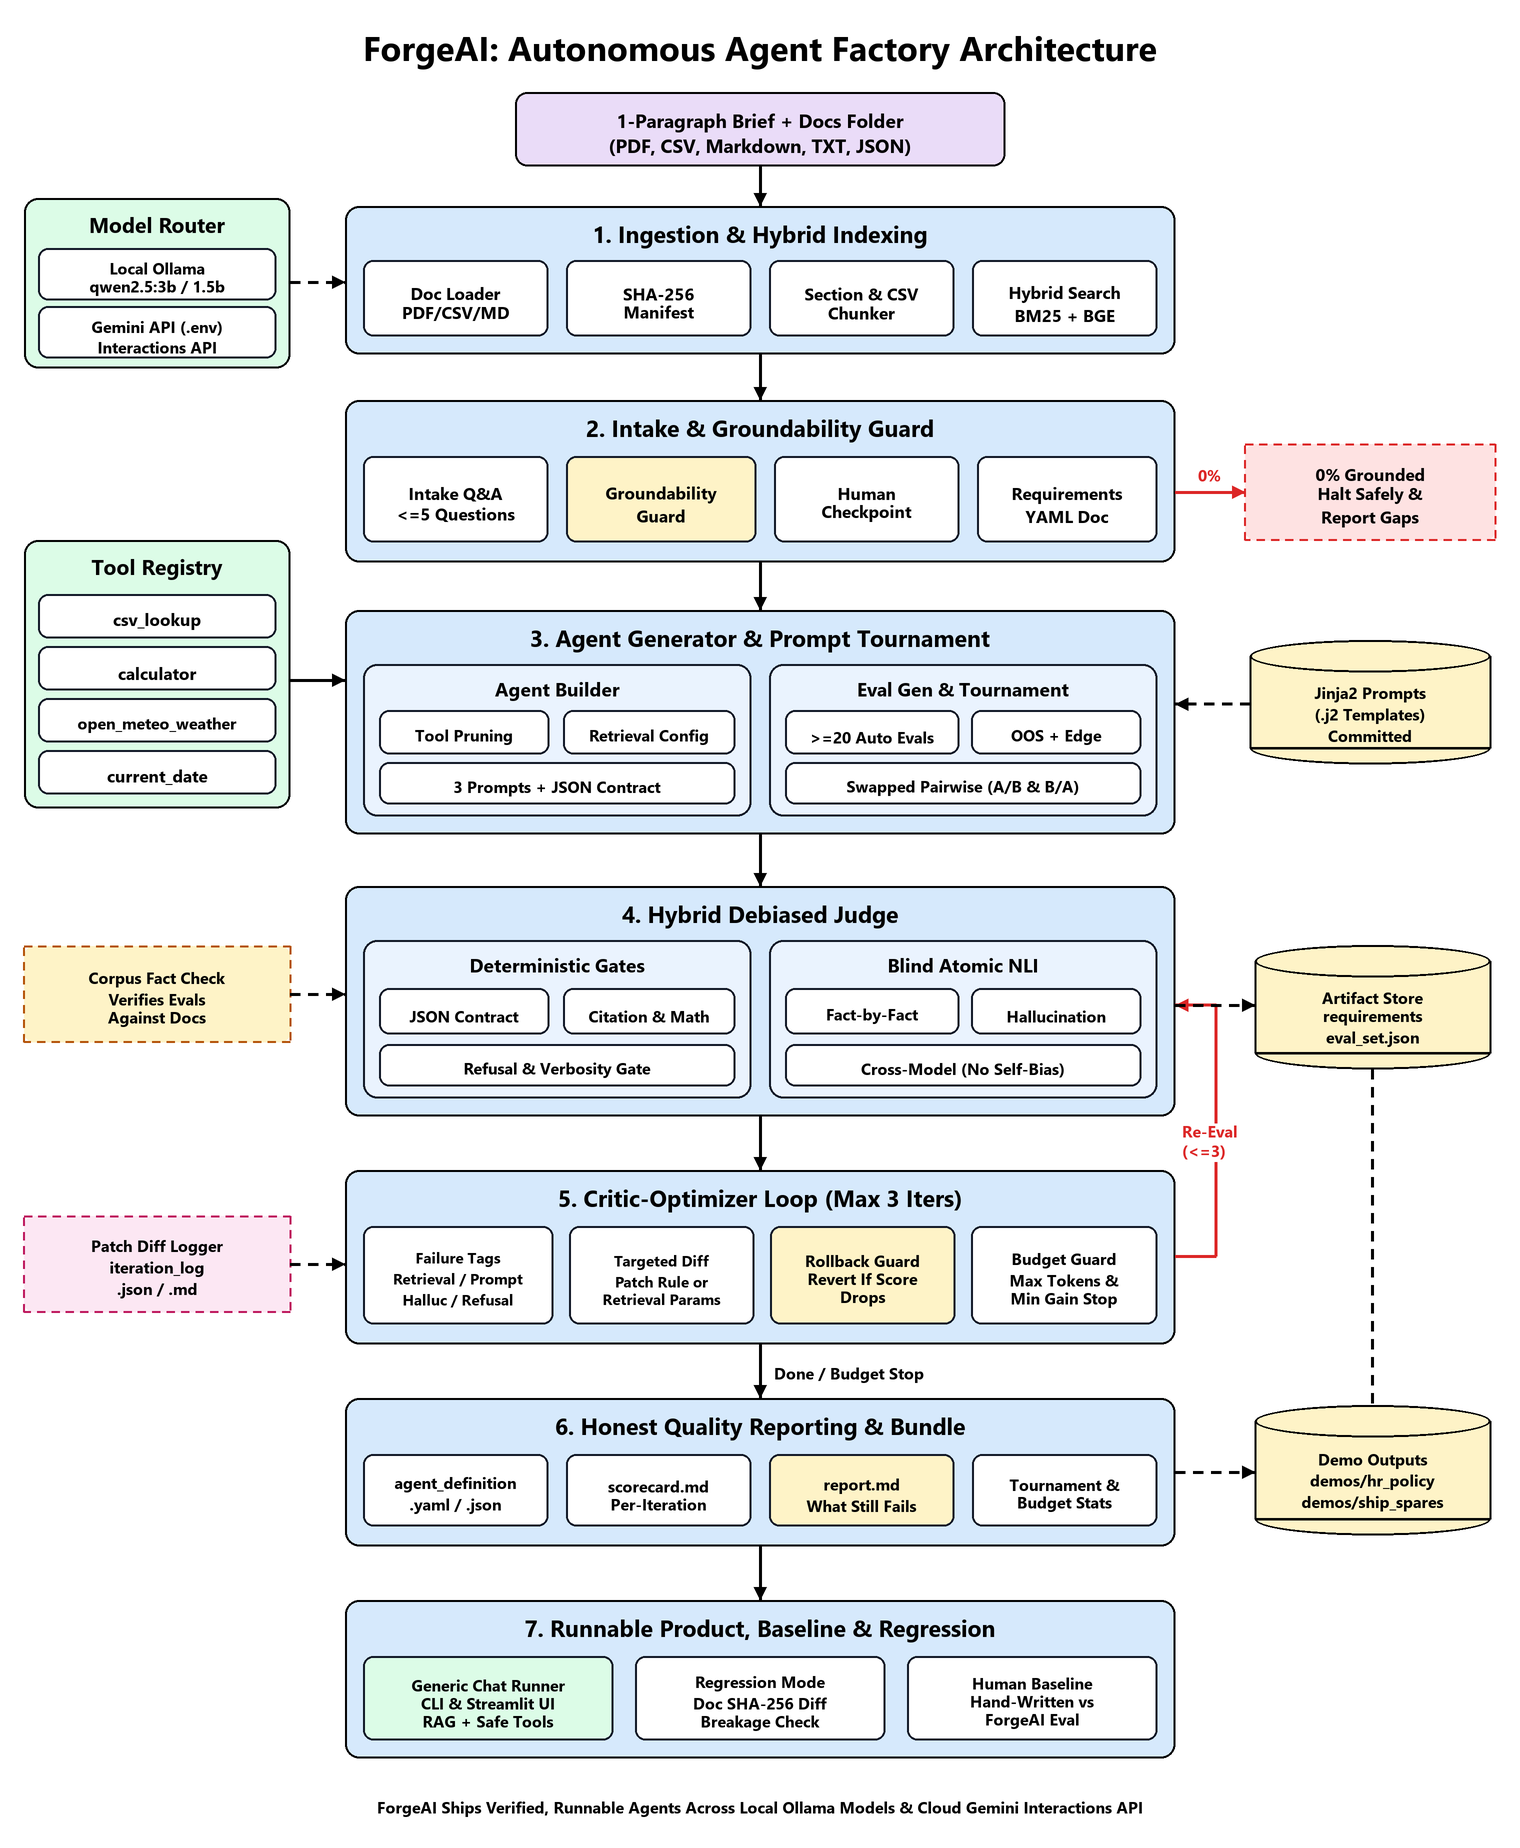
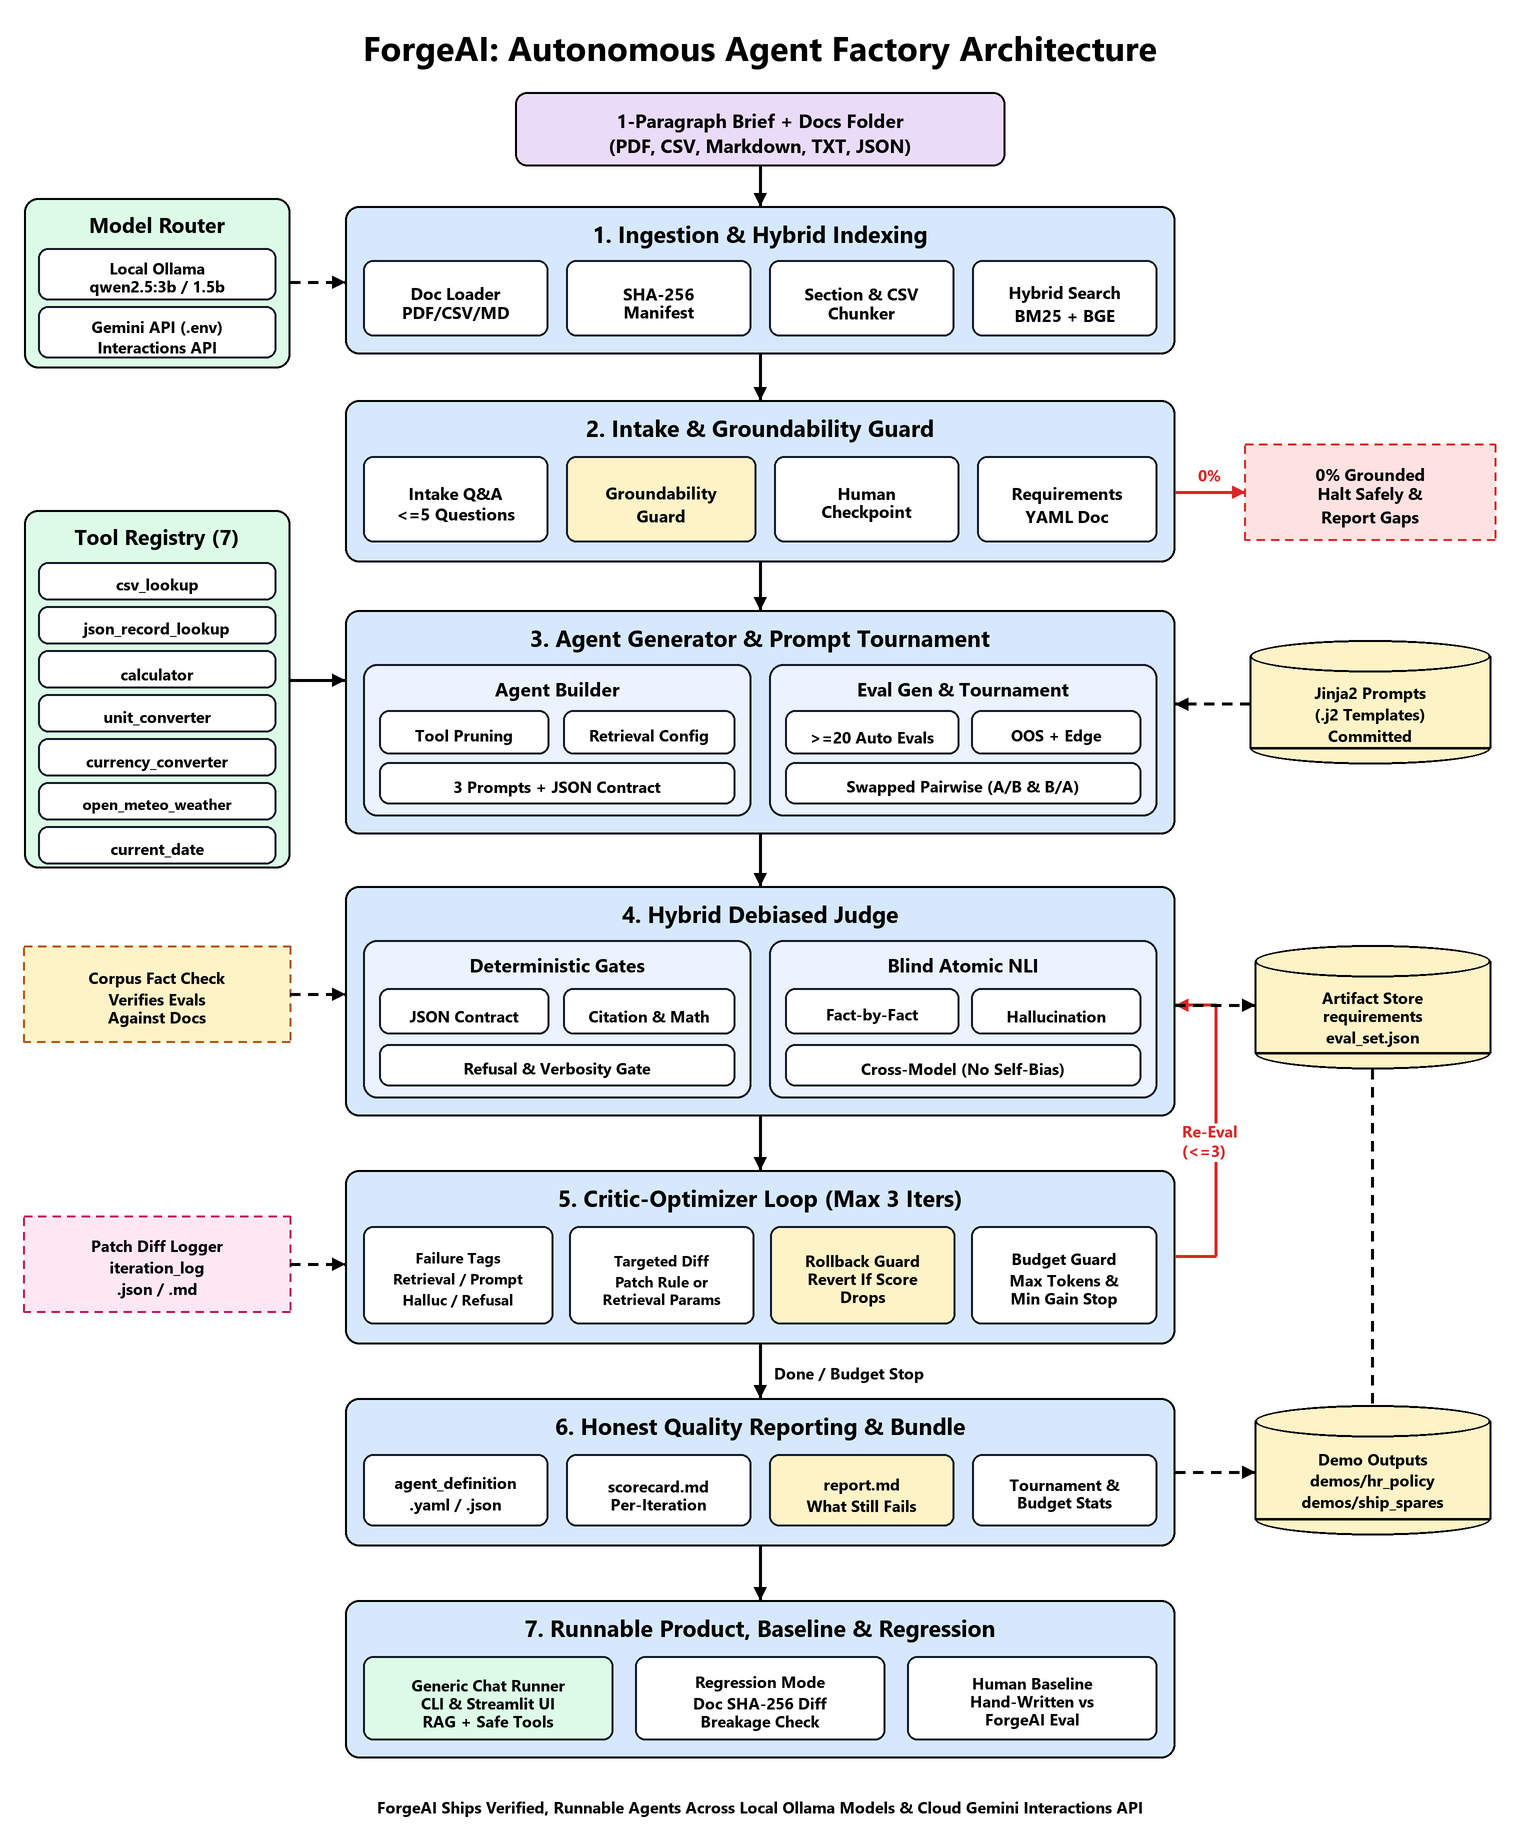
feat(tools): expand tool registry to 7 sandboxed tools and remove ANTIGRAVITY_SPEC.md

Changed region(s): [[0.0, 0.2776, 0.2164, 0.4935]]

diff --git a/src/forgeai/tools/registry.py b/src/forgeai/tools/registry.py
@@ -11,8 +11,11 @@ from forgeai.ingestion.loader import LoadedCorpus
 from forgeai.schemas.agent import ToolBinding
 from forgeai.tools.calculator import run_calculator
 from forgeai.tools.csv_lookup import run_csv_lookup
+from forgeai.tools.currency_converter import run_currency_converter
 from forgeai.tools.current_date import run_current_date
 from forgeai.tools.http_weather import run_open_meteo_weather
+from forgeai.tools.json_lookup import run_json_record_lookup
+from forgeai.tools.unit_converter import run_unit_converter
 
 
 class ToolAuthorizationError(PermissionError):
@@ -28,7 +31,10 @@ class ToolSpec:
     args_schema_hint: str
     handler: Callable[[dict[str, Any], Path], str]
     requires_csv: bool = False
+    requires_json: bool = False
     weather_intent_required: bool = False
+    fx_intent_required: bool = False
+    unit_intent_required: bool = False
 
 
 TOOL_CATALOG: dict[str, ToolSpec] = {
@@ -39,11 +45,32 @@ TOOL_CATALOG: dict[str, ToolSpec] = {
         handler=run_csv_lookup,
         requires_csv=True,
     ),
+    "json_record_lookup": ToolSpec(
+        name="json_record_lookup",
+        description="Search and filter structured JSON record files inside the document corpus.",
+        args_schema_hint='{"filename": "optional.json", "query": "search terms", "limit": 10}',
+        handler=run_json_record_lookup,
+        requires_json=True,
+    ),
     "calculator": ToolSpec(
         name="calculator",
         description="Evaluate exact arithmetic expressions, totals, percentages, discounts, or unit math.",
         args_schema_hint='{"expression": "(1250 * 4) * 1.15"}',
         handler=run_calculator,
+    ),
+    "unit_converter": ToolSpec(
+        name="unit_converter",
+        description="Convert engineering, logistics, and maritime units (kg/lb/mt, km/mi/nm, bar/psi, C/F, knots/kmh, L/gal).",
+        args_schema_hint='{"value": 22.5, "from_unit": "kg", "to_unit": "lb"}',
+        handler=run_unit_converter,
+        unit_intent_required=True,
+    ),
+    "currency_converter": ToolSpec(
+        name="currency_converter",
+        description="Convert amounts across ISO currencies using live keyless Frankfurter ECB FX rates.",
+        args_schema_hint='{"amount": 1500, "from_currency": "USD", "to_currency": "EUR"}',
+        handler=run_currency_converter,
+        fx_intent_required=True,
     ),
     "open_meteo_weather": ToolSpec(
         name="open_meteo_weather",
@@ -66,6 +93,16 @@ _WEATHER_PATTERNS = re.compile(
     re.IGNORECASE,
 )
 
+_FX_PATTERNS = re.compile(
+    r"\b(currency|exchange\s*rate|fx|forex|convert\s*(usd|eur|gbp|sgd|jpy|aed)|eur\b|gbp\b|sgd\b|jpy\b|multi-currency)\b",
+    re.IGNORECASE,
+)
+
+_UNIT_PATTERNS = re.compile(
+    r"\b(unit\s*conver|convert\s*(kg|lb|bar|psi|km|nm|celsius|fahrenheit|knots|liters)|nautical\s*mile|psi\b|bar\b|weight_kg|tonnes?|knots?)\b",
+    re.IGNORECASE,
+)
+
 _NUMERIC_PATTERNS = re.compile(
     r"\b(calculate|calculation|total|cost|price|pricing|budget|discount|tax|freight|quote|lead\s*time|quantity|qty|salary|allowance|reimburse|expense|days|percentage|percent|ratio|sum|margin|invoice|procurement|order|spares|parts|fee)\b",
     re.IGNORECASE,
@@ -85,6 +122,7 @@ def evaluate_tool_eligibility(
     eligible: list[ToolSpec] = []
     rejected: dict[str, str] = {}
 
+    has_json = any(d.summary.doc_type == "json" for d in corpus.documents)
     combined_hints = brief + "\n" + " ".join(corpus.filenames) + "\n" + " ".join(
         d.summary.preview for d in corpus.documents
     )
@@ -94,11 +132,25 @@ def evaluate_tool_eligibility(
             rejected[name] = "Excluded deterministically: no CSV files exist in the document corpus."
             continue
 
+        if spec.requires_json and not has_json:
+            rejected[name] = "Excluded deterministically: no JSON record files exist in the document corpus."
+            continue
+
         if spec.weather_intent_required and not _WEATHER_PATTERNS.search(brief):
-            # Also require explicit weather/forecast intent in the brief itself
-            # so unrelated docs mentioning 'rain check' or ports without weather intent don't attach it.
             rejected[name] = (
                 "Excluded deterministically: user brief does not request weather or meteorological data."
+            )
+            continue
+
+        if spec.fx_intent_required and not _FX_PATTERNS.search(brief):
+            rejected[name] = (
+                "Excluded deterministically: user brief does not request currency conversion or FX rates."
+            )
+            continue
+
+        if spec.unit_intent_required and not (_UNIT_PATTERNS.search(brief) or _UNIT_PATTERNS.search(combined_hints)):
+            rejected[name] = (
+                "Excluded deterministically: no engineering/logistics unit conversion intent detected."
             )
             continue
 

diff --git a/src/forgeai/tools/unit_converter.py b/src/forgeai/tools/unit_converter.py
@@ -1,0 +1,114 @@
+"""Deterministic engineering, maritime, mass, distance, pressure, and temperature unit converter."""
+
+from __future__ import annotations
+
+import json
+from pathlib import Path
+from typing import Any
+
+
+# Canonical conversion factors to SI base per category
+_CATEGORIES: dict[str, dict[str, float]] = {
+    "mass": {
+        "kg": 1.0,
+        "kilogram": 1.0,
+        "kilograms": 1.0,
+        "g": 0.001,
+        "gram": 0.001,
+        "lb": 0.45359237,
+        "lbs": 0.45359237,
+        "pound": 0.45359237,
+        "pounds": 0.45359237,
+        "mt": 1000.0,
+        "tonne": 1000.0,
+        "tonnes": 1000.0,
+    },
+    "distance": {
+        "m": 1.0,
+        "meter": 1.0,
+        "meters": 1.0,
+        "km": 1000.0,
+        "kilometer": 1000.0,
+        "kilometers": 1000.0,
+        "mi": 1609.344,
+        "mile": 1609.344,
+        "miles": 1609.344,
+        "nm": 1852.0,
+        "nmi": 1852.0,
+        "nautical_mile": 1852.0,
+        "ft": 0.3048,
+        "feet": 0.3048,
+        "mm": 0.001,
+    },
+    "pressure": {
+        "bar": 1.0,
+        "psi": 0.06894757,
+        "kpa": 0.01,
+        "mpa": 10.0,
+    },
+    "speed": {
+        "knots": 1.0,
+        "knot": 1.0,
+        "kt": 1.0,
+        "kmh": 0.539957,
+        "km/h": 0.539957,
+        "mph": 0.868976,
+        "mps": 1.943844,
+        "m/s": 1.943844,
+    },
+    "volume": {
+        "l": 1.0,
+        "liter": 1.0,
+        "liters": 1.0,
+        "gal": 3.785411784,
+        "gallon": 3.785411784,
+        "gallons": 3.785411784,
+        "m3": 1000.0,
+    },
+}
+
+
+def _convert_temp(val: float, src: str, dst: str) -> float:
+    s = src.upper().replace("°", "")
+    d = dst.upper().replace("°", "")
+    c_val = val if s == "C" else ((val - 32.0) * 5.0 / 9.0 if s == "F" else val - 273.15)
+    if d == "C":
+        return c_val
+    if d == "F":
+        return c_val * 9.0 / 5.0 + 32.0
+    if d == "K":
+        return c_val + 273.15
+    raise ValueError(f"Unsupported temperature unit '{dst}'")
+
+
+def run_unit_converter(args: dict[str, Any], _docs_dir: Path | None = None) -> str:
+    """Convert engineering, weight, pressure, distance, speed, or temperature values."""
+    try:
+        value = float(args.get("value"))
+    except (TypeError, ValueError):
+        return json.dumps({"error": "Missing or non-numeric 'value' argument."})
+
+    from_unit = str(args.get("from_unit") or "").strip().lower()
+    to_unit = str(args.get("to_unit") or "").strip().lower()
+    if not from_unit or not to_unit:
+        return json.dumps({"error": "Provide both 'from_unit' and 'to_unit'."})
+
+    if from_unit.replace("°", "") in {"c", "f", "k"} and to_unit.replace("°", "") in {"c", "f", "k"}:
+        out = round(_convert_temp(value, from_unit, to_unit), 4)
+        return json.dumps({"value": value, "from_unit": from_unit, "to_unit": to_unit, "result": out})
+
+    for cat, table in _CATEGORIES.items():
+        if from_unit in table and to_unit in table:
+            base_val = value * table[from_unit]
+            converted = base_val / table[to_unit]
+            return json.dumps(
+                {
+                    "category": cat,
+                    "value": value,
+                    "from_unit": from_unit,
+                    "to_unit": to_unit,
+                    "result": round(converted, 4),
+                }
+            )
+
+    return json.dumps({"error": f"Incompatible or unsupported conversion: '{from_unit}' -> '{to_unit}'."})

diff --git a/src/forgeai/tools/json_lookup.py b/src/forgeai/tools/json_lookup.py
@@ -1,0 +1,56 @@
+"""Sandboxed JSON record lookup tool scoped strictly to the agent's docs folder."""
+
+from __future__ import annotations
+
+import json
+from pathlib import Path
+from typing import Any
+
+
+def run_json_record_lookup(args: dict[str, Any], docs_dir: Path) -> str:
+    """Search and filter JSON objects/arrays inside docs_dir safely."""
+    json_files = sorted(p for p in docs_dir.rglob("*.json") if p.is_file())
+    if not json_files:
+        return json.dumps({"error": "No JSON files exist in the document corpus."})
+
+    requested = str(args.get("filename") or "").strip()
+    target = json_files[0]
+    if requested:
+        matches = [p for p in json_files if p.name.lower() == Path(requested).name.lower()]
+        if not matches:
+            return json.dumps(
+                {"error": f"JSON file '{requested}' not found.", "available_json_files": [p.name for p in json_files]}
+            )
+        target = matches[0]
+
+    try:
+        data = json.loads(target.read_text(encoding="utf-8", errors="replace"))
+    except Exception as exc:
+        return json.dumps({"error": f"Failed to parse {target.name}: {exc}"})
+
+    query = str(args.get("query") or "").strip().lower()
+    limit = min(max(1, int(args.get("limit", 10))), 25)
+    records = data if isinstance(data, list) else [data]
+
+    if query:
+        tokens = [t for t in query.split() if len(t) >= 2]
+        scored = []
+        for rec in records:
+            blob = json.dumps(rec, default=str).lower()
+            hits = sum(1 for t in tokens if t in blob)
+            if hits > 0:
+                scored.append((hits, rec))
+        scored.sort(key=lambda x: x[0], reverse=True)
+        matched = [r for _, r in scored[:limit]]
+    else:
+        matched = records[:limit]
+
+    return json.dumps(
+        {
+            "file": target.name,
+            "total_records": len(records),
+            "matches_returned": len(matched),
+            "records": matched,
+        },
+        default=str,
+    )

diff --git a/src/forgeai/tools/currency_converter.py b/src/forgeai/tools/currency_converter.py
@@ -1,0 +1,51 @@
+"""Keyless live FX currency conversion via Frankfurter (ECB reference rates)."""
+
+from __future__ import annotations
+
+import json
+from pathlib import Path
+from typing import Any
+
+import httpx
+
+
+def run_currency_converter(args: dict[str, Any], _docs_dir: Path | None = None) -> str:
+    """Convert amounts between ISO currencies using live keyless Frankfurter ECB rates."""
+    try:
+        amount = float(args.get("amount", 1.0))
+    except (TypeError, ValueError):
+        return json.dumps({"error": "Invalid numeric 'amount'."})
+
+    src = str(args.get("from_currency") or args.get("from") or "USD").strip().upper()
+    dst = str(args.get("to_currency") or args.get("to") or "EUR").strip().upper()
+    if len(src) != 3 or len(dst) != 3:
+        return json.dumps({"error": "Currencies must be 3-letter ISO codes (e.g. USD, EUR, SGD, GBP)."})
+
+    if src == dst:
+        return json.dumps({"amount": amount, "from": src, "to": dst, "rate": 1.0, "converted": amount})
+
+    try:
+        resp = httpx.get(
+            "https://api.frankfurter.app/latest",
+            params={"amount": amount, "from": src, "to": dst},
+            timeout=8.0,
+        )
+        resp.raise_for_status()
+        data = resp.json()
+        rates = data.get("rates") or {}
+        if dst not in rates:
+            return json.dumps({"error": f"Currency '{dst}' not supported by Frankfurter API."})
+        converted = float(rates[dst])
+        rate = round(converted / amount, 6) if amount else 0.0
+        return json.dumps(
+            {
+                "amount": amount,
+                "from": src,
+                "to": dst,
+                "date": data.get("date"),
+                "rate": rate,
+                "converted": round(converted, 4),
+            }
+        )
+    except Exception as exc:
+        return json.dumps({"error": f"FX lookup failed: {exc}"})

diff --git a/tests/test_schemas_and_tools.py b/tests/test_schemas_and_tools.py
@@ -83,3 +83,29 @@ def test_csv_lookup_filters_and_aggregates(tmp_path: Path) -> None:
         docs_dir=tmp_path,
     )
     assert "500" in res
+
+
+def test_unit_converter_and_json_record_lookup(tmp_path: Path) -> None:
+    (tmp_path / "vessels.json").write_text(
+        '[{"imo": "9312456", "name": "MV Oceanic Star", "port": "Singapore"}]',
+        encoding="utf-8",
+    )
+    bindings = [
+        ToolBinding(name="unit_converter", description="units", justification="test"),
+        ToolBinding(name="json_record_lookup", description="json", justification="test"),
+    ]
+    u_out = execute_tool(
+        "unit_converter",
+        {"value": 100, "from_unit": "bar", "to_unit": "psi"},
+        authorized_tools=bindings,
+        docs_dir=tmp_path,
+    )
+    assert "1450.37" in u_out
+
+    j_out = execute_tool(
+        "json_record_lookup",
+        {"query": "Oceanic"},
+        authorized_tools=bindings,
+        docs_dir=tmp_path,
+    )
+    assert "9312456" in j_out

diff --git a/tests/test_groundability_and_tool_pruning.py b/tests/test_groundability_and_tool_pruning.py
@@ -31,8 +31,12 @@ def test_hr_brief_never_attaches_weather_or_csv_tools(tmp_path: Path) -> None:
     elig_names = {t.name for t in elig}
     assert "open_meteo_weather" not in elig_names
     assert "csv_lookup" not in elig_names
+    assert "json_record_lookup" not in elig_names
+    assert "currency_converter" not in elig_names
+    assert "unit_converter" not in elig_names
     assert "open_meteo_weather" in rejected
     assert "csv_lookup" in rejected
+    assert "currency_converter" in rejected
 
 
 def test_groundability_guard_blocks_ungroundable_brief_and_flags_partial_gaps(tmp_path: Path) -> None:

diff --git a/docs/ARCHITECTURE.md b/docs/ARCHITECTURE.md
@@ -45,8 +45,8 @@ Small local models (`1.5B–3B`) fail in predictable ways: broken JSON, overly e
 1. **JSON Repair & Schema Coercion (`llm/base.py`)**: Every structured call validates against Pydantic v2, retries with explicit schema error feedback, extracts fenced/substring JSON blocks, and applies deterministic defaults on non-critical fields.
 2. **Evidence-First Groundability Guard (`factory/groundability.py`)**: Before any agent is generated, the factory extracts atomic capabilities/claims from the brief and queries the actual document index (BM25 + Dense vector similarity + CSV column schema inspection). Any claim with zero supporting evidence is marked `UNSUPPORTED` and automatically added to `must_refuse_topics` with an explicit gap warning—preventing the factory from generating prompts that invite fabrication.
 3. **Deterministic + LLM Tool Pruning (`tools/registry.py`, `factory/generator.py`)**:
-   - Four sandboxed tools exist: `csv_lookup`, `calculator`, `open_meteo_weather`, `current_date`.
-   - Deterministic capability gates block impossible tools first (e.g., `csv_lookup` cannot attach if zero `.csv` files exist in the corpus; `open_meteo_weather` requires explicit meteorological/sea-state/forecast intent in the brief/docs).
+   - Seven sandboxed tools exist: `csv_lookup`, `json_record_lookup`, `calculator`, `unit_converter`, `currency_converter`, `open_meteo_weather`, and `current_date`.
+   - Deterministic capability gates block impossible tools first (e.g., `csv_lookup` cannot attach if zero `.csv` files exist; `json_record_lookup` requires `.json` files; `open_meteo_weather`, `currency_converter`, and `unit_converter` require explicit domain intent).
    - The LLM selector only chooses from eligible tools and must justify each with a brief quote; post-checks strip any unjustified attachment.
 4. **Hybrid Retrieval with Score Gating (`retrieval/hybrid.py`)**:
    - Heading/paragraph-aware chunking for PDFs/Markdown/TXT plus structured row-summary + schema chunking for CSVs.

diff --git a/README.md b/README.md
@@ -83,4 +83,4 @@ forgeai ui
 ---
 
 ## Project Structure
-See [docs/ARCHITECTURE.md](docs/ARCHITECTURE.md) for architecture diagrams and [docs/ANTIGRAVITY_SPEC.md](docs/ANTIGRAVITY_SPEC.md) for the complete specification.
+See [docs/ARCHITECTURE.md](docs/ARCHITECTURE.md) and [docs/forgeai_architecture.png](docs/forgeai_architecture.png) for architecture details and the end-to-end flowchart.
